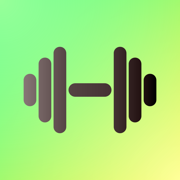
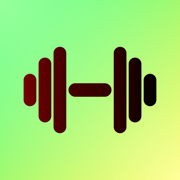
added more red to dambel shape

Changed region(s): [[0.1111, 0.25, 0.7778, 0.75]]

diff --git a/logo.html b/logo.html
@@ -74,15 +74,15 @@
 
     <div id="logo" class="gradient-box rounded-box">
         <div class="dumbbell">
-            <div class="dumbbell-element dumbbell-element-vertical" style="height: 30%; background: linear-gradient(to left, #766, #877);"></div>
-            <div class="dumbbell-element dumbbell-element-vertical" style="height: 60%; background: linear-gradient(to left, #655, #766);"></div>
-            <div class="dumbbell-element dumbbell-element-vertical" style="height: 80%; background: linear-gradient(to left, #544, #655);"></div>
+            <div class="dumbbell-element dumbbell-element-vertical" style="height: 30%; background: linear-gradient(to left, #600, #700);"></div>
+            <div class="dumbbell-element dumbbell-element-vertical" style="height: 60%; background: linear-gradient(to left, #500, #600);"></div>
+            <div class="dumbbell-element dumbbell-element-vertical" style="height: 80%; background: linear-gradient(to left, #400, #500);"></div>
 
-            <div class="dumbbell-element dumbbell-element-horizontal" style="width: 45%; background: linear-gradient(to left, #433, #544);"></div>
+            <div class="dumbbell-element dumbbell-element-horizontal" style="width: 45%; background: linear-gradient(to left, #300, #400);"></div>
 
-            <div class="dumbbell-element dumbbell-element-vertical" style="height: 80%; background: linear-gradient(to left, #322, #433);"></div>
-            <div class="dumbbell-element dumbbell-element-vertical" style="height: 60%; background: linear-gradient(to left, #211, #322);"></div>
-            <div class="dumbbell-element dumbbell-element-vertical" style="height: 30%; background: linear-gradient(to left, #000, #211);"></div>
+            <div class="dumbbell-element dumbbell-element-vertical" style="height: 80%; background: linear-gradient(to left, #200, #300);"></div>
+            <div class="dumbbell-element dumbbell-element-vertical" style="height: 60%; background: linear-gradient(to left, #100, #200);"></div>
+            <div class="dumbbell-element dumbbell-element-vertical" style="height: 30%; background: linear-gradient(to left, #000, #100);"></div>
         </div>
     </div>
 
